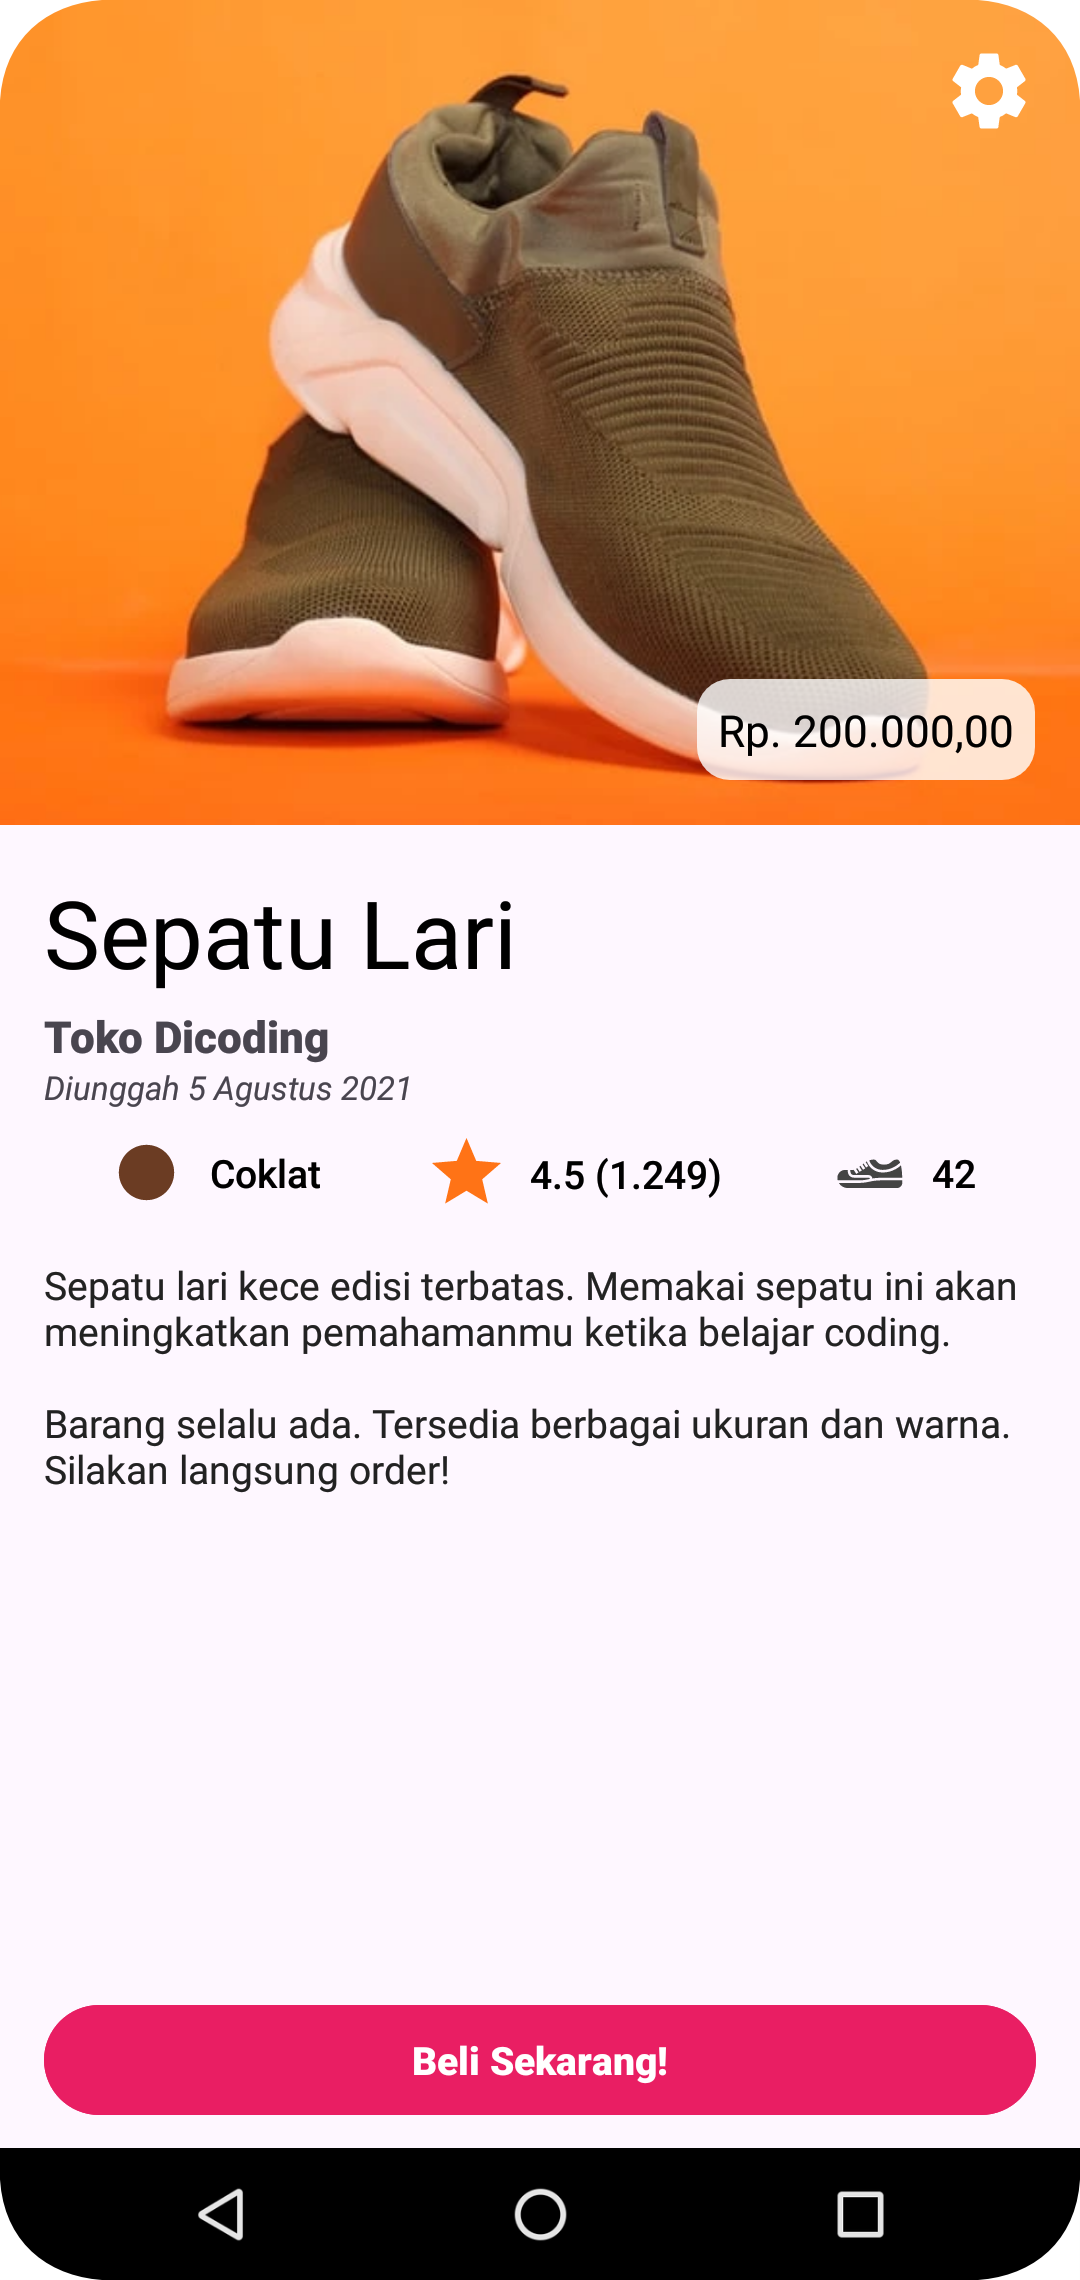
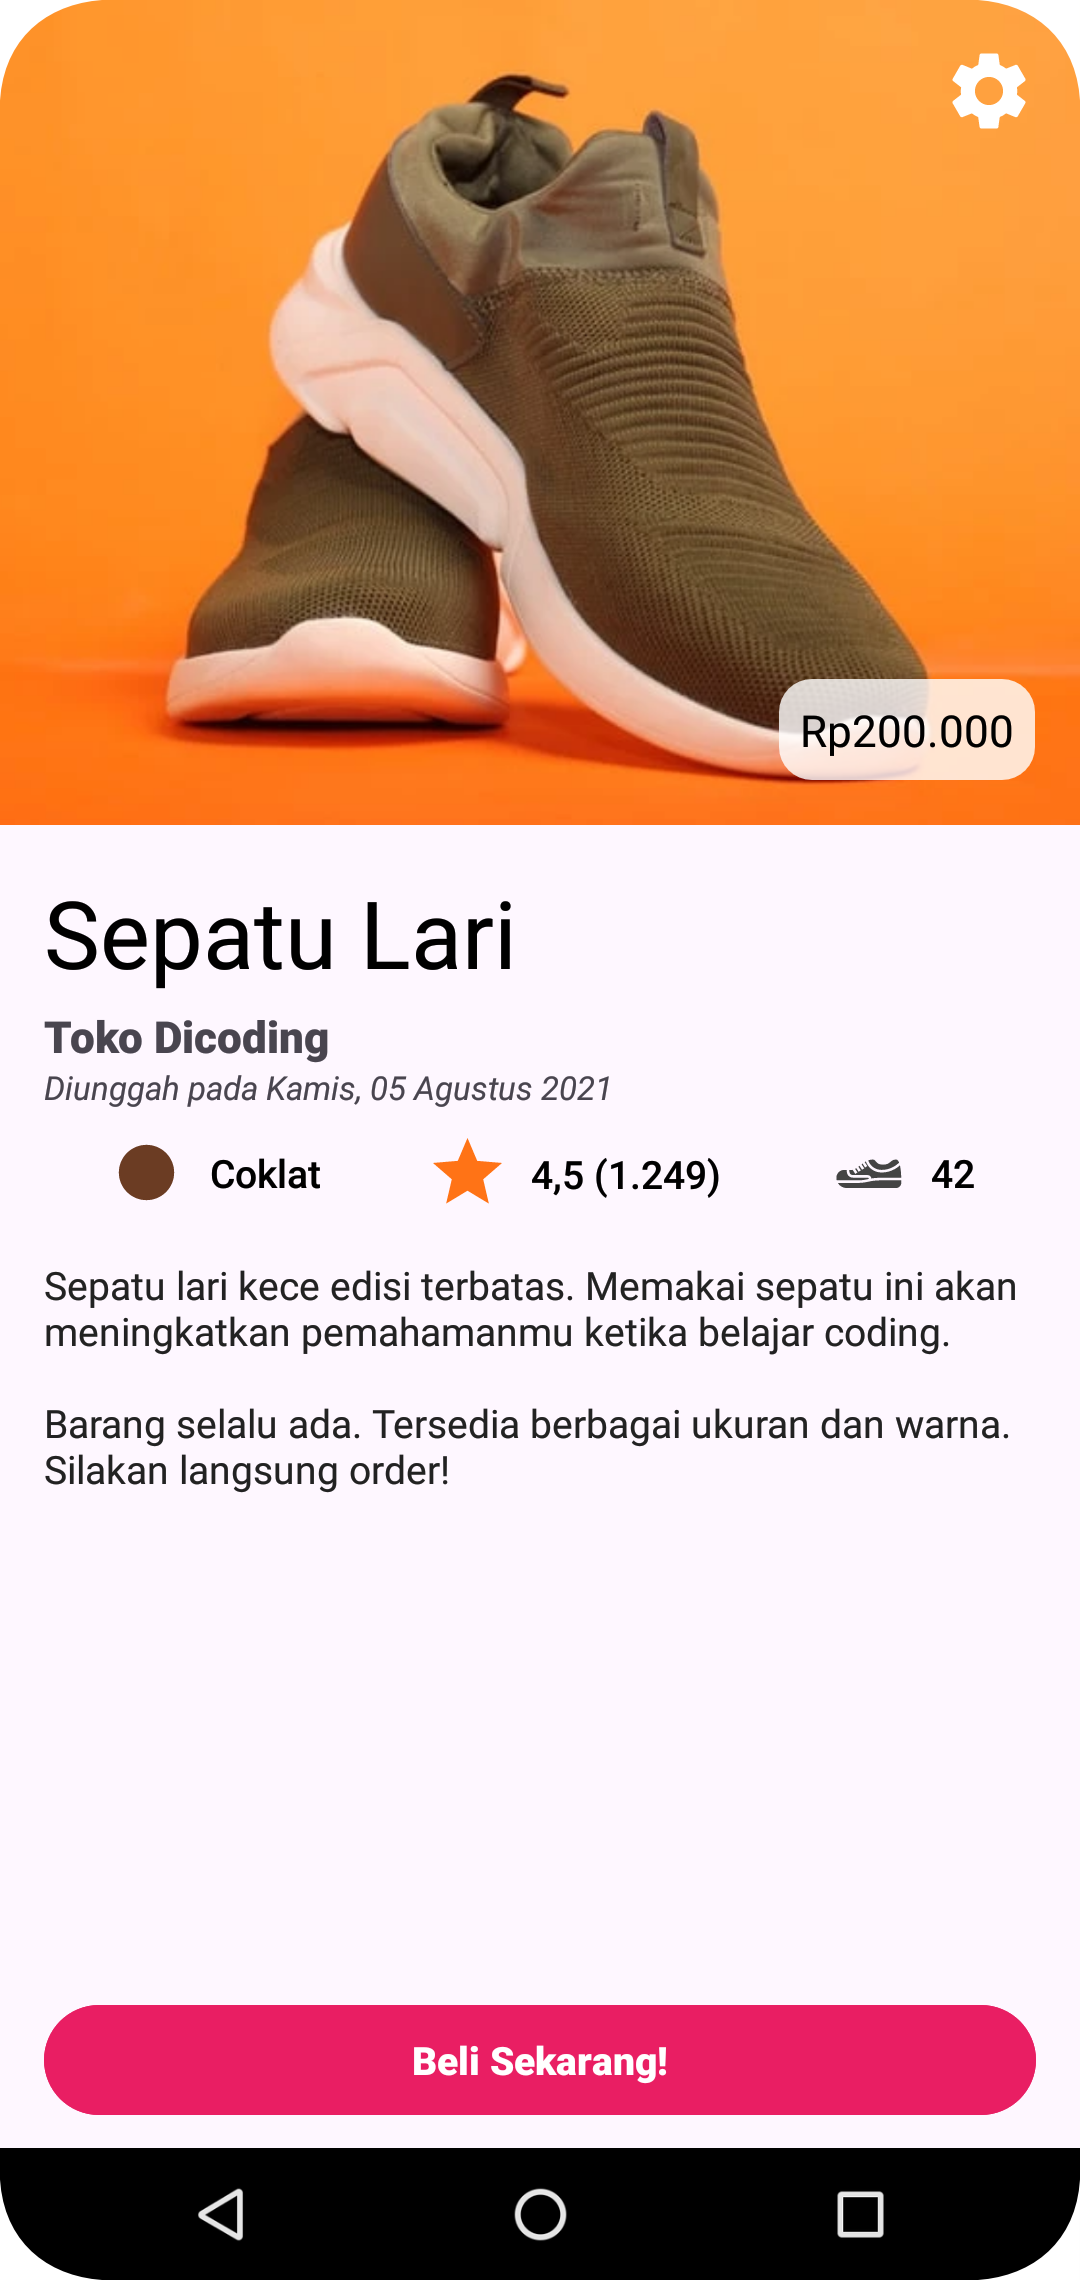
Implement Formatting in Information.

diff --git a/app/src/main/java/com/kisahcode/androidintermediate/Helper.kt b/app/src/main/java/com/kisahcode/androidintermediate/Helper.kt
@@ -1,0 +1,80 @@
+package com.kisahcode.androidintermediate
+
+import java.text.DateFormat
+import java.text.NumberFormat
+import java.text.SimpleDateFormat
+import java.util.*
+
+/**
+ * Extension function to format a string representing a number into a human-readable format.
+ *
+ * The input string should represent a number (e.g., "1000").
+ * The function formats this string into a localized number format, adding commas to separate thousands.
+ * For example, "1000" becomes "1,000" in the US locale.
+ *
+ * @return The formatted number string.
+ */
+fun String.withNumberingFormat(): String {
+    return NumberFormat.getNumberInstance().format(this.toDouble())
+}
+
+/**
+ * Extension function to format a string representing a date into a human-readable date format.
+ *
+ * The input string should be in the format "dd/MM/yyyy" (e.g., "21/04/2024").
+ * The function converts this string into a fully formatted date string based on the device's locale.
+ * For example, in the US locale, the output might be "Wednesday, April 21, 2024".
+ *
+ * @return The formatted date string.
+ */
+fun String.withDateFormat(): String {
+    val format = SimpleDateFormat("dd/MM/yyyy", Locale.US)
+    val date = format.parse(this) as Date
+    return DateFormat.getDateInstance(DateFormat.FULL).format(date)
+}
+
+/**
+ * Extension function to format a string representing a price into a human-readable currency format
+ * based on the device's locale.
+ *
+ * The input string should represent a numeric price value (e.g., "1000").
+ * The function converts this price into a formatted currency string based on the device's locale.
+ * If the device locale is Spanish ("ES"), the price is converted to Euros and formatted accordingly.
+ * If the device locale is Indonesian ("ID"), the price is converted to Indonesian Rupiah and formatted.
+ * For other locales, the price is formatted in the default currency (US dollars).
+ *
+ * @return The formatted currency string.
+ */
+fun String.withCurrencyFormat(): String {
+    // Exchange rates for Euro and Indonesian Rupiah against US Dollar.
+    val rupiahExchangeRate  = 12495.95
+    val euroExchangeRate = 0.88
+
+    // Convert the price to its equivalent value in US Dollars.
+    var priceOnDollar = this.toDouble() / rupiahExchangeRate
+
+    // Get a NumberFormat instance for currency formatting.
+    var mCurrencyFormat = NumberFormat.getCurrencyInstance()
+
+    // Get the device's locale.
+    val deviceLocale = Locale.getDefault().country
+
+    // Determine the currency formatting based on the device's locale.
+    when {
+        deviceLocale.equals("ES") -> {
+            // If the device locale is Spanish, convert the price to Euros.
+            priceOnDollar *= euroExchangeRate
+        }
+        deviceLocale.equals("ID") -> {
+            // If the device locale is Indonesian, convert the price to Indonesian Rupiah.
+            priceOnDollar *= rupiahExchangeRate
+        }
+        else -> {
+            // For other locales, use the default currency format (US dollars).
+            mCurrencyFormat = NumberFormat.getCurrencyInstance(Locale.US)
+        }
+    }
+
+    // Format the price in the appropriate currency format.
+    return mCurrencyFormat.format(priceOnDollar)
+}

diff --git a/app/src/main/java/com/kisahcode/androidintermediate/MainActivity.kt b/app/src/main/java/com/kisahcode/androidintermediate/MainActivity.kt
@@ -20,24 +20,65 @@ class MainActivity : AppCompatActivity() {
 
         setupView()
         setupAction()
+        setupData()
     }
 
+    /**
+     * Set up the click action for the settings icon.
+     */
     private fun setupAction() {
         binding.settingImageView.setOnClickListener {
             startActivity(Intent(Settings.ACTION_LOCALE_SETTINGS))
         }
     }
 
+    /**
+     * Set up the view configurations for the activity.
+     *
+     * This function handles adjustments related to the status bar and action bar visibility based
+     * on the Android version.
+     */
     private fun setupView() {
+        // Check if the device is running Android R or later.
         @Suppress("DEPRECATION")
         if (Build.VERSION.SDK_INT >= Build.VERSION_CODES.R) {
+            // If the device is running Android R or later, use WindowInsetsController to hide the status bar.
             window.insetsController?.hide(WindowInsets.Type.statusBars())
         } else {
+            // For Android versions prior to Android R, use deprecated methods to hide the status bar.
             window.setFlags(
                 WindowManager.LayoutParams.FLAG_FULLSCREEN,
                 WindowManager.LayoutParams.FLAG_FULLSCREEN
             )
         }
+
+        // Hide the action bar.
         supportActionBar?.hide()
+    }
+
+    /**
+     * Set up the data for the activity.
+     *
+     * This function retrieves product details from the remote data source and populates the UI
+     * elements with the retrieved data, applying formatting where necessary.
+     */
+    private fun setupData() {
+        val repository = RemoteDataSource(this)
+        // Retrieve product details from the remote data source.
+        val product = repository.getDetailProduct().apply {
+            // Populate UI elements with the retrieved product details.
+            binding.apply {
+                previewImageView.setImageResource(image)
+                nameTextView.text = name
+                storeTextView.text = store
+                colorTextView.text = color
+                sizeTextView.text = size
+                descTextView.text = desc
+                // Format and set the price, date, and rating of the product.
+                priceTextView.text = price.withCurrencyFormat()
+                dateTextView.text = getString(R.string.dateFormat, date.withDateFormat())
+                ratingTextView.text = getString(R.string.ratingFormat, rating.withNumberingFormat(), countRating.withNumberingFormat())
+            }
+        }
     }
 }

diff --git a/app/src/main/java/com/kisahcode/androidintermediate/RemoteDataSource.kt b/app/src/main/java/com/kisahcode/androidintermediate/RemoteDataSource.kt
@@ -1,0 +1,31 @@
+package com.kisahcode.androidintermediate
+
+import android.content.Context
+
+/**
+ * A data source responsible for fetching product details from a remote location.
+ *
+ * @property context The context used to access application-specific resources.
+ */
+class RemoteDataSource(private val context: Context) {
+
+    /**
+     * Retrieves the details of a product from the remote data source.
+     *
+     * @return A [ProductModel] object representing the product details.
+     */
+    fun getDetailProduct(): ProductModel {
+        return ProductModel(
+            name = context.getString(R.string.name),
+            store = context.getString(R.string.store),
+            size = context.getString(R.string.size),
+            color = context.getString(R.string.color),
+            desc = context.getString(R.string.description),
+            image = R.drawable.shoes,
+            date = context.getString(R.string.date),
+            rating = context.getString(R.string.rating),
+            price = context.getString(R.string.price),
+            countRating = context.getString(R.string.countRating)
+        )
+    }
+}

diff --git a/app/src/main/java/com/kisahcode/androidintermediate/ProductModel.kt b/app/src/main/java/com/kisahcode/androidintermediate/ProductModel.kt
@@ -1,0 +1,28 @@
+package com.kisahcode.androidintermediate
+
+/**
+ * Represents a product in the application.
+ *
+ * @property name The name of the product.
+ * @property price The price of the product as a string.
+ * @property store The store where the product is available.
+ * @property date The date when the product was added or updated.
+ * @property rating The rating of the product as a string.
+ * @property countRating The count of ratings for the product as a string.
+ * @property size The size of the product.
+ * @property color The color of the product.
+ * @property desc A description of the product.
+ * @property image The resource ID of the image associated with the product.
+ */
+data class ProductModel(
+    val name: String,
+    val price: String,
+    val store: String,
+    val date: String,
+    val rating: String,
+    val countRating: String,
+    val size: String,
+    val color: String,
+    val desc: String,
+    val image: Int
+)

diff --git a/README.md b/README.md
@@ -1,4 +1,4 @@
-# Localization of Text to Support Multi-Language
+# Implement Formatting in Information
 
 This repository used for learning:
 
@@ -11,4 +11,5 @@ This repository used for learning:
 | Build Configuration Language  | Kotlin DSL                     |
 
 <img src="preview_1.png" alt="Preview 1" width="411" height="914">
-<img src="preview_2.png" alt="Preview 1" width="914" height="411">
+<img src="preview_2.png" alt="Preview 1" width="411" height="914">
+<img src="preview_3.jpeg" alt="Preview 1" width="1600" height="688">
